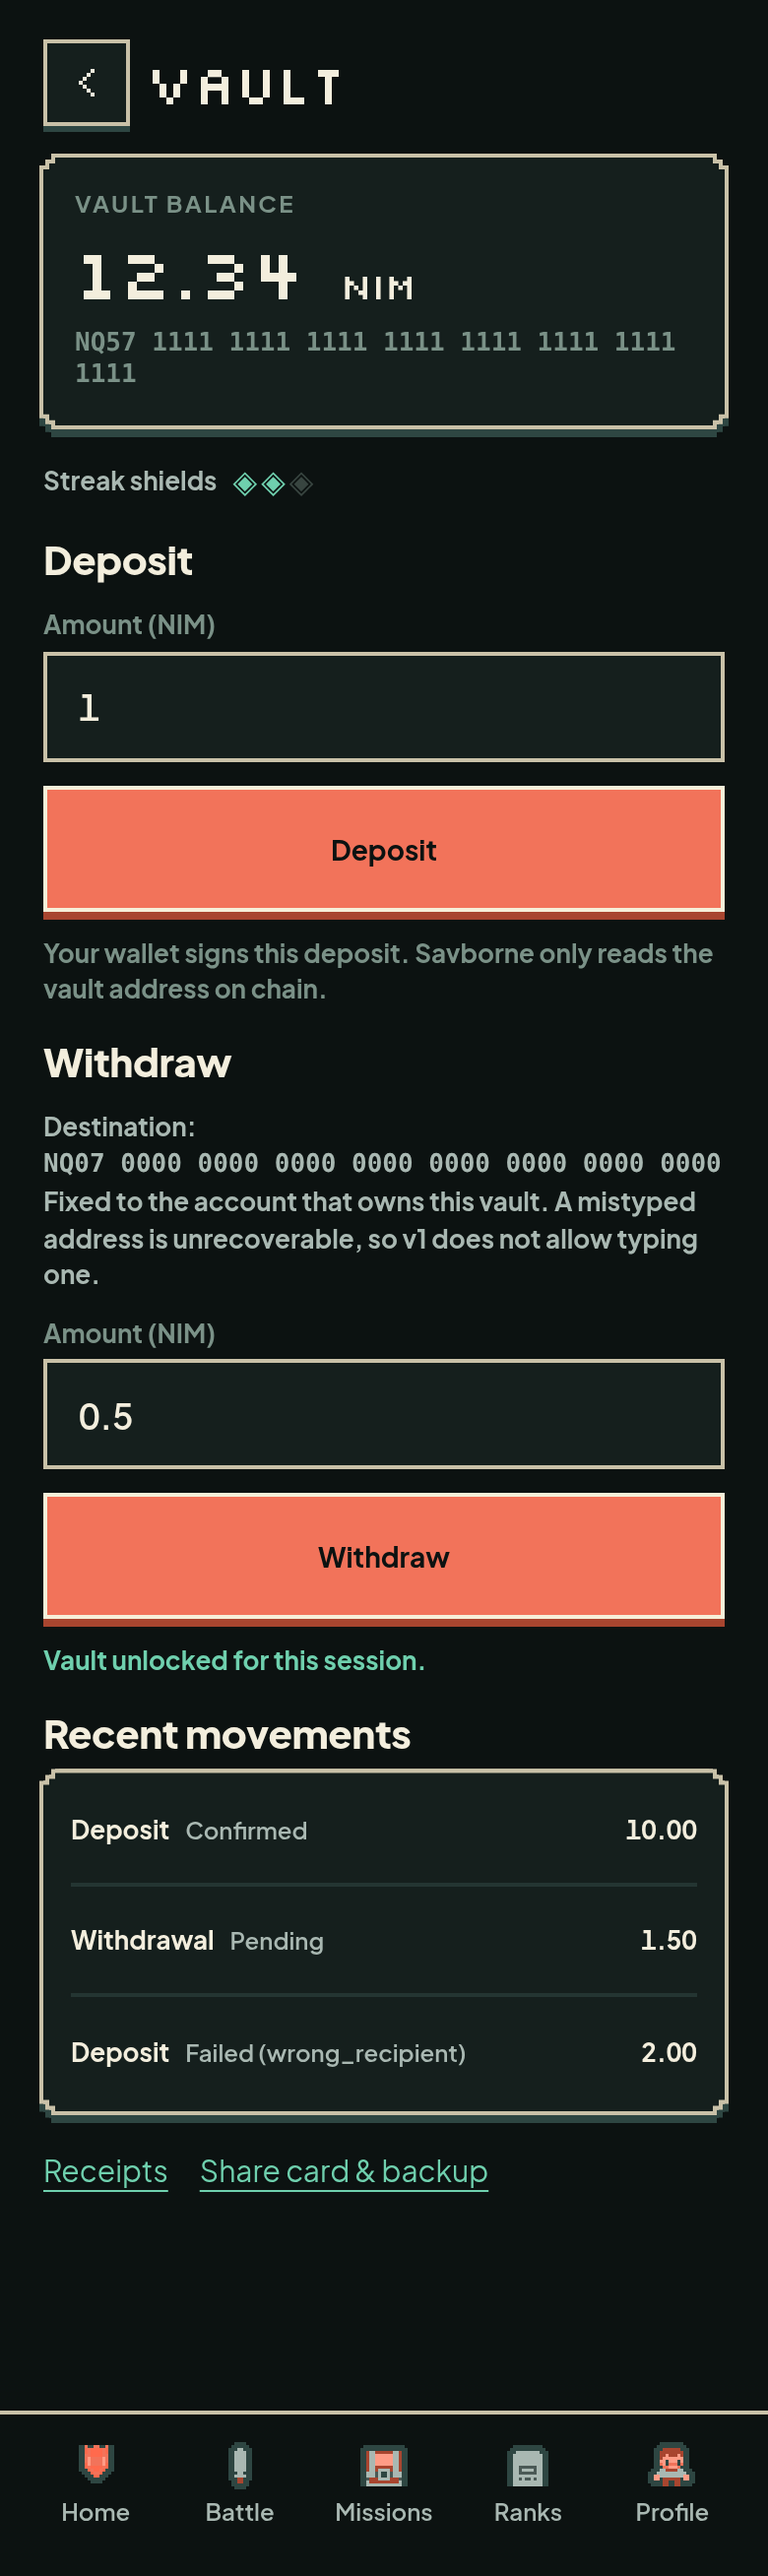
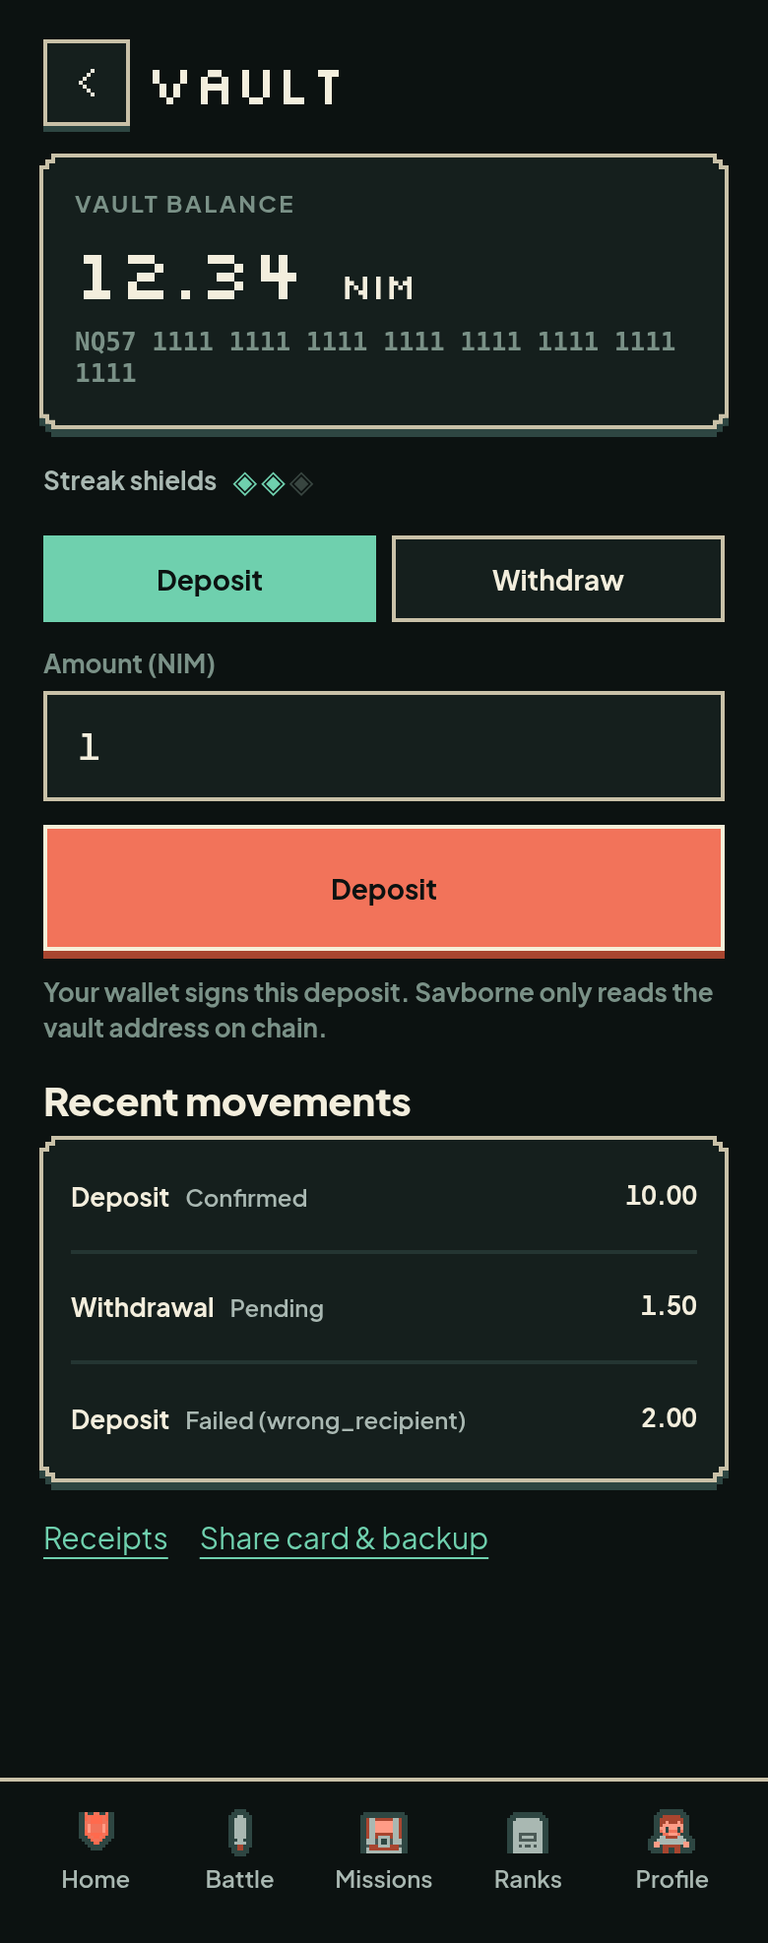
chore: refresh app routes renders for the tab revision

diff --git a/docs/superpowers/renders/app-routes/review/index.html b/docs/superpowers/renders/app-routes/review/index.html
@@ -30,26 +30,30 @@
 <h1>App-specific routes - current review</h1>
 <p class="lede">
   The three routes with no handoff figure, restyled to Foundation 2 at 360, 390
-  and 430: Vault (default, no vault, locked, empty movements, error, loading),
-  Receipts (mixed, empty, error, loading) and the public Card. Renders are 2x
-  device-scale PNGs from the headless CDP harness with fixture data. A 401 on
-  Receipts is source-tested, not rendered. Write corrections in
-  <code>NOTES.md</code>.
+  and 430: Vault (Deposit tab, Withdraw tab, no vault, locked Withdraw, empty
+  movements, error, loading), Receipts (mixed, empty, error, loading) and the
+  public Card. Renders are 2x device-scale PNGs from the headless CDP harness
+  with fixture data. A 401 on Receipts is source-tested, not rendered. Write
+  corrections in <code>NOTES.md</code>.
 </p>
 
 <section class="screen">
   <h2>Audit summary</h2>
-  <p class="route">33 rows: 11 states x 360/390/430</p>
+  <p class="route">36 rows: 12 states x 360/390/430</p>
   <table>
     <tr><th>Check</th><th>Result</th></tr>
     <tr><td>Horizontal overflow</td><td>0 on every row</td></tr>
     <tr><td>Elements wider than the viewport</td><td>0</td></tr>
     <tr><td>Interactive targets below 44x44</td><td>0</td></tr>
     <tr><td>Minimum rendered font</td><td>12px</td></tr>
-    <tr><td>Keyboard stops checked</td><td>199</td></tr>
+    <tr><td>Keyboard stops checked</td><td>236</td></tr>
     <tr><td>Stops out of view or covered</td><td>0</td></tr>
     <tr><td>Stops without the 2px mint outline</td><td>0</td></tr>
   </table>
+  <p class="note">Loading states are captured at viewport height, not as
+  expanded full-page screenshots, so the three dots appear where the running app
+  actually centres them. Banner text is 8px apart and the action sits 16px below
+  the text, via the shared Banner primitive.</p>
   <p class="note">The earlier nav-link outline mismatch was a harness timing false
   positive: <code>transition-colors</code> animates <code>outline-color</code>, and
   the audit sampled 30ms after Tab. It now waits 200ms for the transition to
@@ -58,7 +62,7 @@
 
 <section class="screen">
   <h2>Vault - default (unlocked)</h2>
-  <p class="route">/vault - tab shell, Home back link, balance card, shields, 20px sub-headings, .sv-input fields, grouped movement panel, Receipts and Share links</p>
+  <p class="route">/vault - tab shell, Home back link, balance card, shields, Deposit/Withdraw tabs, Deposit selected, .sv-input, grouped movement panel</p>
   <div class="strip">
     <figure><figcaption>360</figcaption><img src="../after/vault-default@360.png" alt="Vault default at 360px"></figure>
     <figure><figcaption>390</figcaption><img src="../after/vault-default@390.png" alt="Vault default at 390px"></figure>
@@ -69,6 +73,16 @@
     <figure><figcaption>390</figcaption><img src="../before/vault-before@390.png" alt="Vault before at 390px"></figure>
     <figure><figcaption>430</figcaption><img src="../before/vault-before@430.png" alt="Vault before at 430px"></figure>
   </div></details>
+</section>
+
+<section class="screen">
+  <h2>Vault - Withdraw tab</h2>
+  <p class="route">/vault - Withdraw selected; destination, amount, unlocked Withdraw action and the mint session line; balance, banners and movements stay in place</p>
+  <div class="strip">
+    <figure><figcaption>360</figcaption><img src="../after/vault-withdraw@360.png" alt="Vault withdraw tab at 360px"></figure>
+    <figure><figcaption>390</figcaption><img src="../after/vault-withdraw@390.png" alt="Vault withdraw tab at 390px"></figure>
+    <figure><figcaption>430</figcaption><img src="../after/vault-withdraw@430.png" alt="Vault withdraw tab at 430px"></figure>
+  </div>
 </section>
 
 <section class="screen">
@@ -83,7 +97,7 @@
 
 <section class="screen">
   <h2>Vault - locked</h2>
-  <p class="route">/vault - deposit available; withdraw amount disabled; passphrase is .sv-input with a visible label; Unlock vault disabled until typed</p>
+  <p class="route">/vault - Withdraw tab selected and locked; passphrase is .sv-input with a visible label; Unlock vault disabled until typed; Deposit stays available in its tab</p>
   <div class="strip">
     <figure><figcaption>360</figcaption><img src="../after/vault-locked@360.png" alt="Vault locked at 360px"></figure>
     <figure><figcaption>390</figcaption><img src="../after/vault-locked@390.png" alt="Vault locked at 390px"></figure>
@@ -113,7 +127,7 @@
 
 <section class="screen">
   <h2>Vault - loading</h2>
-  <p class="route">/vault - the shell header stays; the three-dot LoadingState waits below it</p>
+  <p class="route">/vault - the shell header stays; the three-dot LoadingState is centred in the viewport</p>
   <div class="strip">
     <figure><figcaption>360</figcaption><img src="../after/vault-loading@360.png" alt="Vault loading at 360px"></figure>
     <figure><figcaption>390</figcaption><img src="../after/vault-loading@390.png" alt="Vault loading at 390px"></figure>
@@ -158,7 +172,7 @@
 
 <section class="screen">
   <h2>Receipts - loading</h2>
-  <p class="route">/receipts - intro copy stays; the three-dot LoadingState waits below it</p>
+  <p class="route">/receipts - intro copy stays; the three-dot LoadingState is centred in the viewport</p>
   <div class="strip">
     <figure><figcaption>360</figcaption><img src="../after/receipts-loading@360.png" alt="Receipts loading at 360px"></figure>
     <figure><figcaption>390</figcaption><img src="../after/receipts-loading@390.png" alt="Receipts loading at 390px"></figure>

diff --git a/docs/superpowers/audits/2026-11-05-ui-gap-audit.md b/docs/superpowers/audits/2026-11-05-ui-gap-audit.md
@@ -1527,26 +1527,26 @@ CSS changed.
 
 | Check | Result |
 |---|---|
-| `npm test` | 409 pass, 0 fail (396 before the batch) |
+| `npm test` | 411 pass, 0 fail (396 before the batch) |
 | `npx tsc --noEmit` | clean |
 | `npm run lint` | exit 0, 49 warnings, 0 errors |
 | `npm run build` | exit 0; `/vault`, `/receipts` and `/card/[token]` compile |
 | Legacy classes | no `vpx` in the three route sources |
 | Type floor | minimum rendered font 12 |
-| Audit | 33 rows (11 states x 360/390/430): `overflowX` 0, no wide element, no target below 44px, 199 focus stops all in view, uncovered and mint-outlined |
+| Audit | 36 rows (12 states x 360/390/430): `overflowX` 0, no wide element, no target below 44px, 236 focus stops all in view, uncovered and mint-outlined |
 
 ### Renders
 
-33 after PNGs in `docs/superpowers/renders/app-routes/after/` and 9 before PNGs
+36 after PNGs in `docs/superpowers/renders/app-routes/after/` and 9 before PNGs
 in `.../before/` at 360/390/430. The review page is
 `docs/superpowers/renders/app-routes/review/index.html`; `NOTES.md` carries the
 sign-off list and deliberate choices. Raw audit is
 `.../audit/final-audit.jsonl`.
 
-Vault states: default (unlocked), no vault, locked, empty movements, error,
-loading. Receipts states: mixed included/pending/expired plus a snapshot,
-empty, error, loading. Card: valid. A 401 is source-tested rather than
-rendered.
+Vault states: Deposit default, Withdraw unlocked, no vault, Withdraw locked,
+empty movements, error, loading. Receipts states: mixed
+included/pending/expired plus a snapshot, empty, error, loading. Card: valid. A
+401 is source-tested rather than rendered.
 
 ### 360 behaviour
 
@@ -1585,6 +1585,34 @@ rendered.
 - **Audit false positive.** The first audit pass sampled the nav link outline
   30ms into `transition-colors`; waiting 200ms showed the 2px mint ring. The
   UI did not change.
+
+### Revision - 2026-11-10
+
+Three review corrections are in:
+
+- **Deposit and Withdraw are tabs.** `Tabs` now sits below the balance, shields
+  and banners, and only the selected form is visible. Deposit is the default; a
+  receipt's `?direction=out` link opens Withdraw and prefills the amount. The
+  tab is local state, not a URL parameter. Balance, banners and Recent
+  movements stay on both tabs.
+- **The passphrase moved inside Withdraw.** Selecting Withdraw while locked
+  shows the `.sv-input` passphrase and Unlock vault in that tab. Deposit stays
+  usable in its own tab. After unlock, Withdraw shows its action and the mint
+  success line.
+- **Banner spacing is a shared fix.** `.sv-banner` is a flex column with an 8px
+  gap, and `.sv-banner > .sv-btn` adds 8px, so text lines are 8px apart and the
+  action sits 16px below the text. Every screen gets the same rhythm; no local
+  wrapper is needed.
+- **Loading dots were already centred.** The first review images distorted
+  them: the capture harness expanded the shell to take a full-page screenshot,
+  which collapsed the body and pulled the dots toward the top. Loading states
+  are now captured at viewport height, so the images show the real centre. No
+  `LoadingState` code changed.
+
+The revised renders add `vault-withdraw`; `vault-locked` now opens the Withdraw
+tab. Verification after the revision is 411 tests, tsc clean, 49 lint warnings,
+build green, and a 36-row audit (236 focus stops) with no overflow, no wide
+element, no target below 44px and a 12px minimum font.
 
 ### Remaining
 

diff --git a/docs/superpowers/renders/app-routes/review/NOTES.md b/docs/superpowers/renders/app-routes/review/NOTES.md
@@ -5,9 +5,10 @@ to, naming the width and the element where possible.
 
 ## Sign-off
 
-- [ ] Vault - default (unlocked)
+- [ ] Vault - default (Deposit tab)
+- [ ] Vault - Withdraw tab
 - [ ] Vault - no vault
-- [ ] Vault - locked
+- [ ] Vault - locked Withdraw
 - [ ] Vault - empty movements
 - [ ] Vault - error
 - [ ] Vault - loading
@@ -24,13 +25,19 @@ Corrections:
 
 -
 
+## Vault - Withdraw tab
+
+Corrections:
+
+-
+
 ## Vault - no vault
 
 Corrections:
 
 -
 
-## Vault - locked
+## Vault - locked Withdraw
 
 Corrections:
 
@@ -88,7 +95,15 @@ Corrections:
 
 - Vault keeps the tab shell with the Home back link because it is a route in
   the `(tabs)` group. It is not converted to a pushed screen.
-- Vault section headings use `h2.sv-subheading` at 20px default text. Mint is
+- Deposit and Withdraw are `Tabs`, like Ranked/Unranked. Only the selected form
+  is visible; the balance card, banners and Recent movements stay on both. The
+  tab is local state, not a URL parameter.
+- Deposit is the default. A receipt's `?direction=out` link opens Withdraw and
+  prefills the amount.
+- The passphrase and Unlock vault live inside the Withdraw tab. Deposit stays
+  usable while the vault is locked.
+- Vault section headings use `h2.sv-subheading` at 20px default text. Deposit
+  and Withdraw no longer repeat a heading below their tab labels. Mint is
   reserved for the unlocked success line, progress and the You row. The tiny
   `Vault balance` eyebrow stays a 12px field label.
 - The two amount fields and the passphrase all use the existing `.sv-input`
@@ -126,14 +141,20 @@ Corrections:
   is unavailable in this sandbox. The fixture was reverted before the final
   test/build and is not in the committed tree. The 404 path is source-tested.
 - `getFlexCard` still selects only the explicit columns the card needs.
-- No shared CSS changed. The batch consumes `.sv-input`, `.sv-subheading`,
-  `Row`, `PixelPanel tone="off"`, `Banner`, `Button` and `LoadingState` as they
-  already exist.
+- No shared CSS changed originally. The revision adds one shared Banner rule
+  (`display: flex`, `gap: 8px`, and 8px above an in-banner action), so every
+  banner has 8px between text lines and 16px before the action. Everything else
+  still consumes `.sv-input`, `.sv-subheading`, `Row`, `PixelPanel tone="off"`,
+  `Button` and `LoadingState` as they already exist.
+- The loading dots were already centred in the running app. The first review
+  images expanded the shell to take a full-page screenshot, which collapsed the
+  body and pulled the dots upward. Loading states are now captured at viewport
+  height; no `LoadingState` code changed.
 
 ## Audit
 
-33 rows (11 states x 360/390/430): `overflowX` 0, no element wider than the
-viewport, no interactive target below 44x44, minimum font 12px, and 199
+36 rows (12 states x 360/390/430): `overflowX` 0, no element wider than the
+viewport, no interactive target below 44x44, minimum font 12px, and 236
 keyboard stops all in view, uncovered and outlined in 2px mint.
 
 The first audit pass flagged the bottom-nav outlines as the wrong colour. That

diff --git a/docs/superpowers/plans/2026-11-10-app-routes-polish.md b/docs/superpowers/plans/2026-11-10-app-routes-polish.md
@@ -644,3 +644,55 @@ git log --oneline -5
 
 Expected: clean `app-routes-polish` branch, four commits, no fixture, no
 `.env.local`, no `AGENTS.md`, no InstaBox tooling. Stop and ask for sign-off.
+
+---
+
+### Task 5: Review revision - tabs, banner spacing and loading capture
+
+**Files:**
+- Modify: `src/app/(tabs)/vault/page.tsx`
+- Modify: `src/app/globals.css`
+- Modify: `src/lib/app-routes.test.ts`
+- Modify: `src/lib/ui-primitives.test.ts`
+- Modify: `docs/superpowers/renders/app-routes/after/`
+- Modify: `docs/superpowers/renders/app-routes/audit/final-audit.jsonl`
+- Modify: `docs/superpowers/renders/app-routes/review/index.html`
+- Modify: `docs/superpowers/renders/app-routes/review/NOTES.md`
+- Modify: `docs/superpowers/audits/2026-11-05-ui-gap-audit.md`
+
+- [ ] **Step 1: Switch the Vault forms to Tabs**
+
+Import `Tabs`, add a local `deposit | withdraw` state, default to Deposit, and
+set it to Withdraw when `?direction=out` arrives from an expired receipt. Render
+one form at a time below the banners. Clear the action error and notice on a tab
+change. Keep the passphrase inside the Withdraw tab.
+
+- [ ] **Step 2: Give the shared Banner its spacing**
+
+Add `display: flex`, `flex-direction: column` and `gap: 8px` to `.sv-banner`,
+and `margin-top: 8px` on `.sv-banner > .sv-btn`, so the text-to-action gap is
+16px. Extend the Banner primitives test.
+
+- [ ] **Step 3: Capture loading states at viewport height**
+
+The dots already centre in the shell body; the first full-page capture expanded
+the shell and put them near the top. Mark loading states so the harness takes a
+viewport screenshot instead of expanding the shell.
+
+- [ ] **Step 4: Re-render and re-audit**
+
+Add `vault-withdraw` to the harness. `vault-locked` clicks the Withdraw tab
+before capture. Capture 12 states x 3 widths (36 PNGs) and audit all 36.
+
+```bash
+for s in vault-default vault-withdraw vault-no-vault vault-locked vault-empty vault-error vault-loading receipts-mixed receipts-empty receipts-error receipts-loading card-valid; do
+  STATE=$s OUT_DIR=docs/superpowers/renders/app-routes/after node --import tsx /data/tmp/opencode/capture-app-routes.mjs
+  STATE=$s AUDIT=1 node --import tsx /data/tmp/opencode/capture-app-routes.mjs
+done
+```
+
+- [ ] **Step 5: Update review, audit section and verify**
+
+Add the Withdraw render and the revised choices to `review/index.html` and
+`NOTES.md`; append the revision to audit section 22. Revert the card fixture,
+then run `npm test`, `npx tsc --noEmit`, `npm run lint` and `npm run build`.

diff --git a/docs/superpowers/specs/2026-11-10-app-routes-polish-design.md b/docs/superpowers/specs/2026-11-10-app-routes-polish-design.md
@@ -394,3 +394,42 @@ No merge or push until sign-off.
 6. **No live data checks.** `.env.local` is absent, so Supabase and Nimiq are
    not exercised; tests, build and fixture renders are. The real-device pass
    remains the user's sign-off step.
+
+---
+
+## 11. Revision - 2026-11-10
+
+Three review corrections were approved after the first render pass.
+
+| # | Decision | Choice |
+|---|---|---|
+| 16 | Deposit / Withdraw control | The `Tabs` primitive, exactly like Ranked/Unranked. One form is visible at a time. The tabs sit below the balance, shields and banners, and above Recent movements. The balance, banners and movements stay on both tabs. |
+| 17 | Default tab and receipt links | Deposit is the default. A receipt's `?direction=out` link opens Withdraw and prefills the amount. The tab itself stays local state; it is not a URL parameter. |
+| 18 | Locked Withdraw | The passphrase `.sv-input` and `Unlock vault` live inside the Withdraw tab. Deposit stays usable in its own tab. After unlock, the tab shows the Withdraw action and the mint success line. |
+| 19 | Banner spacing | Shared `.sv-banner` fix: 8px between text lines and 16px before the action. Every banner in the app gets the same rhythm. |
+| 20 | Loading dots | The dots were already centred in the running app; the first review images distorted them by expanding the shell for a full-page screenshot. Loading states are now captured at viewport height, so they show the real centre. No LoadingState code change is needed. |
+
+### Revised Vault anatomy
+
+```
+Vault
+┌ balance card ┐
+Streak shields
+[ banners ]
+[ Deposit | Withdraw ]          Tabs, 44px, mint selected
+  selected form
+[ action error / notice ]
+Recent movements
+Receipts   Share card & backup
+```
+
+`Recent movements` keeps its 20px sub-heading. Deposit and Withdraw no longer
+repeat a heading below their tab labels.
+
+### Revised verification
+
+| Check | Result |
+|---|---|
+| `npm test` | 411 pass, 0 fail |
+| Audit | 36 rows (12 states x 360/390/430): 236 focus stops, min font 12, no overflow, no target below 44px |
+| Renders | 36 after PNGs, including `vault-withdraw`; Vault locked now opens the Withdraw tab |
